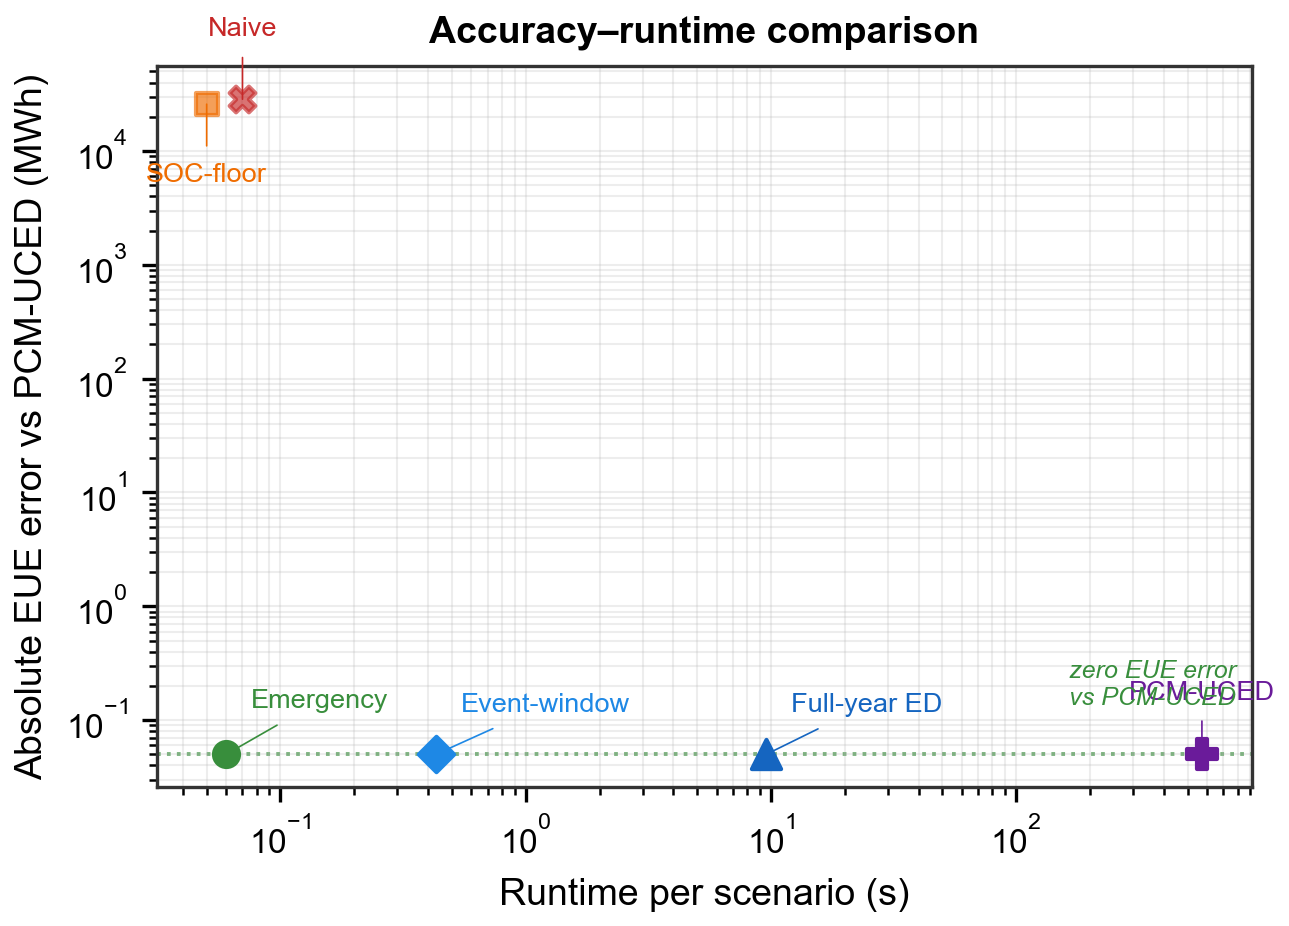
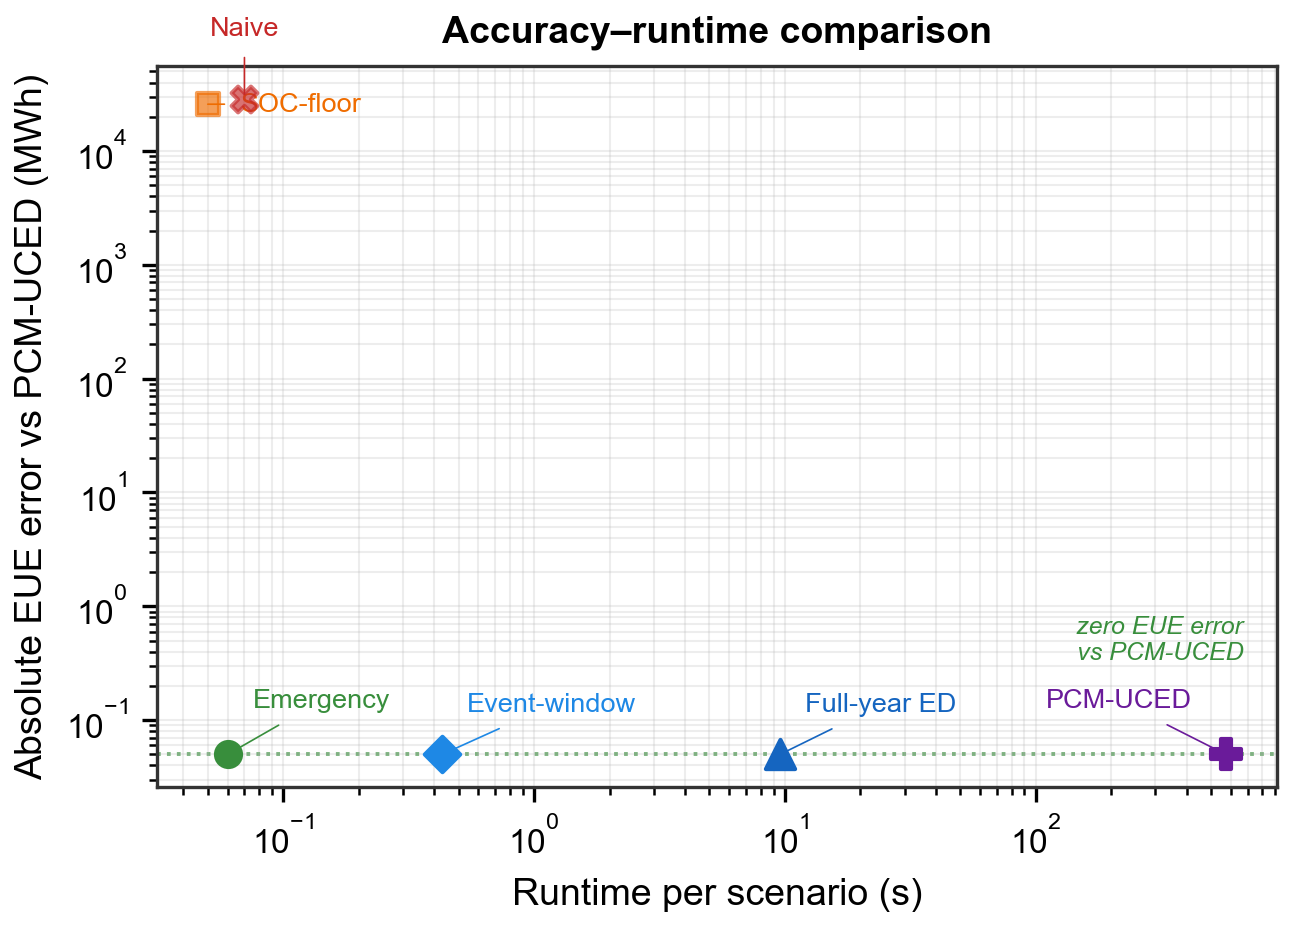
scripts: fix Fig. 2 label overlap in runtime_accuracy_frontier
- SOC-floor offset: (0,-14,top,center) -> (+8,0,center,left) to clear y-axis
- PCM-UCED offset: (0,+12,bottom,center) -> (-8,+10,bottom,right) to clear
  the green floor annotation
- Green annotation: moved from blended-transform right edge to
  transAxes (0.97, 0.17) so it no longer overlaps PCM-UCED label
- Removed unused 'import matplotlib.transforms' from make_fig3()

diff --git a/scripts/45_make_paper_figures.py b/scripts/45_make_paper_figures.py
@@ -269,7 +269,6 @@ def make_fig2():
 
 def make_fig3():
     """Log-log scatter: per-scenario runtime vs absolute EUE error vs PCM-UCED."""
-    import matplotlib.transforms as mtransforms
     df   = pd.read_csv(os.path.join(RES, "paper_tables", "paper_runtime_accuracy.csv"))
     df_b = df[df["case"] == "VRE120_base"].copy()
 
@@ -323,12 +322,12 @@ def make_fig3():
     # Direct text labels using pixel-based offsets
     offsets = {
         # (dx_pts, dy_pts, va, ha)
-        "M1":      (0,  +14, "bottom", "center"),
-        "M1b":     (0,  -14, "top",    "center"),
-        "M1c":     (+6, +10, "bottom", "left"),
-        "M2":      (+6,  +9, "bottom", "left"),
-        "M3":      (+6,  +9, "bottom", "left"),
-        "HOPE-UC": (0,  +12, "bottom", "center"),
+        "M1":      (0,   +14, "bottom", "center"),
+        "M1b":     (+8,    0, "center", "left"),    # moved right to clear y-axis
+        "M1c":     (+6,  +10, "bottom", "left"),
+        "M2":      (+6,   +9, "bottom", "left"),
+        "M3":      (+6,   +9, "bottom", "left"),
+        "HOPE-UC": (-8,  +10, "bottom", "right"),   # moved left to clear green annotation
     }
     for r in rows:
         mid = r["mid"]
@@ -347,12 +346,11 @@ def make_fig3():
                     if (ox != 0 or oy != 0) else None,
         )
 
-    # Zero-error floor line: green with label on the right using a blended transform
+    # Zero-error floor line: green with label in upper-right empty area
     ax.axhline(FLOOR, color=C["green"], ls=":", lw=0.9, zorder=1, alpha=0.7)
-    trans = mtransforms.blended_transform_factory(ax.transAxes, ax.transData)
-    ax.text(0.985, FLOOR * 2.5,
+    ax.text(0.97, 0.17,
             "zero EUE error\nvs PCM-UCED",
-            transform=trans, fontsize=6.0, color=C["green"],
+            transform=ax.transAxes, fontsize=6.0, color=C["green"],
             va="bottom", ha="right", style="italic")
 
     ax.set_xscale("log")
